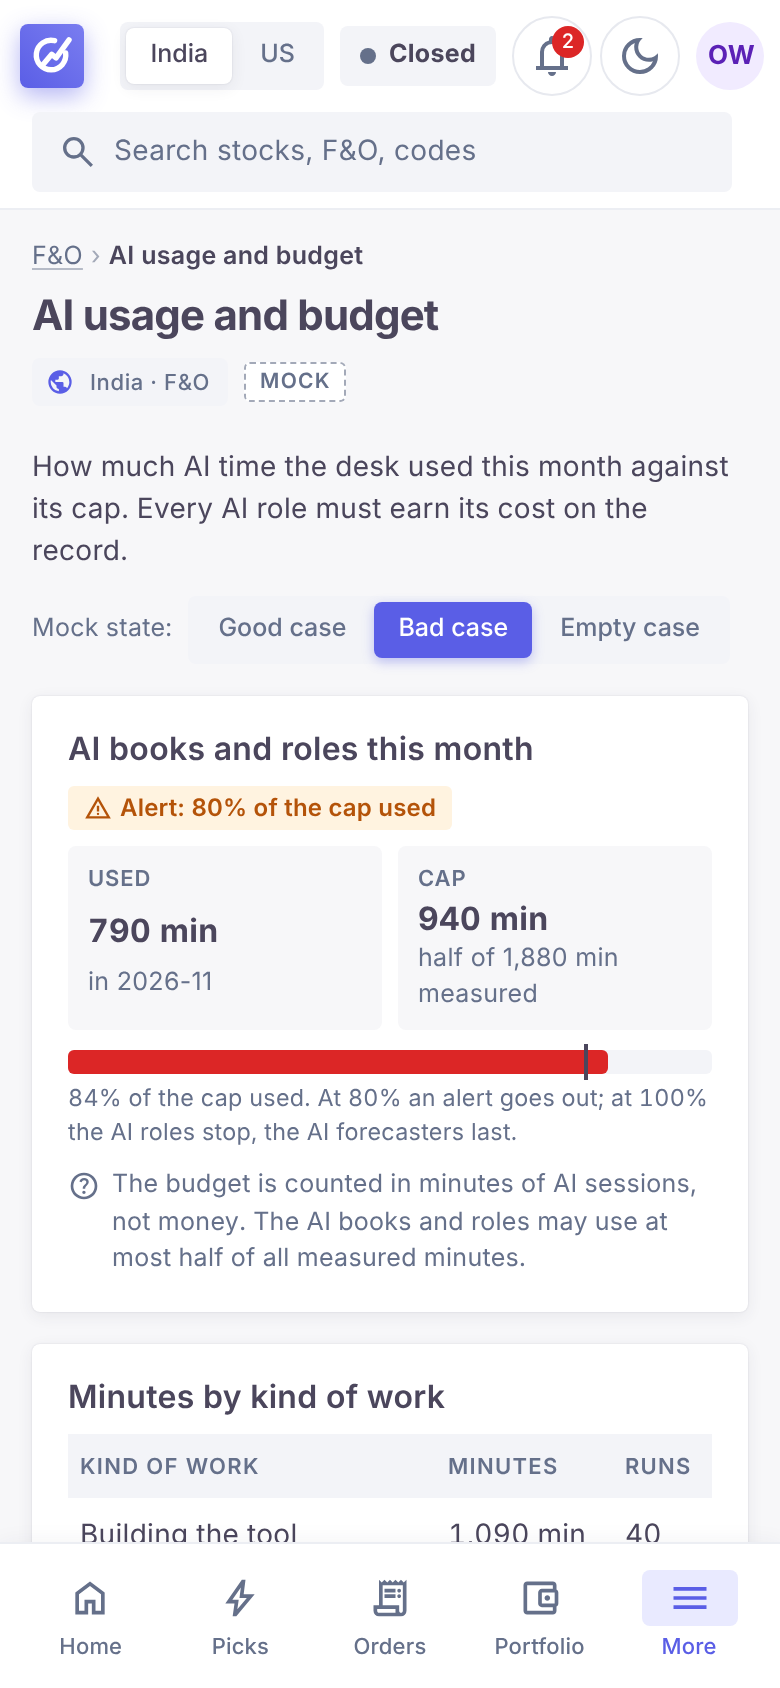
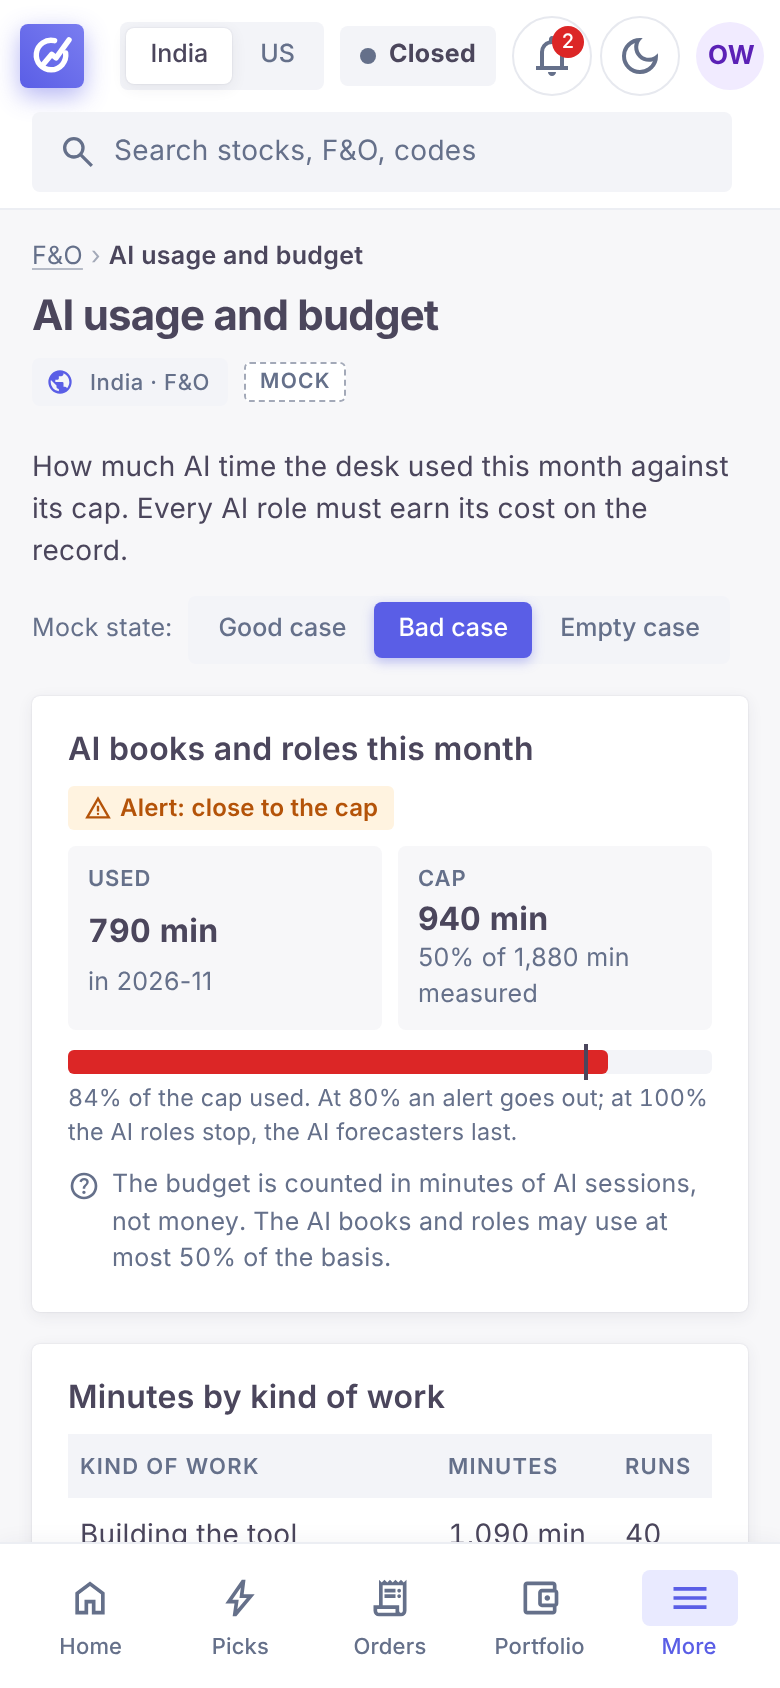
Contract 2.11.0: BG1's three shares on the budget page (share_pct, alert_pct, stop_pct)
The W3 builder found mockup 43 copying BG1's rules into the screen (the alert tick at 80%, "half of" the basis, "at
100%"). FnoBudget now sends share_pct, alert_pct and stop_pct (required) from trading config.yaml budget
(books_and_roles_share_pct 50, alert_pct 80, stop_pct 100); every sentence and the tick read them. A sweep of
mockups 37 and 39-46 found no other copied owner limit (the rest are comments, the chances chart's 50% scale end and
the protocol's 2% question definition).

Claude-Session: https://claude.ai/code/session_01XFXpbkyixX7SuXeQCp5EnX

Changed region(s): [[0.2154, 0.7393, 0.6462, 0.7701], [0.2462, 0.4621, 0.5846, 0.4929], [0.5231, 0.5545, 0.8, 0.5853]]

diff --git a/design/mockups/43-budget/page.html b/design/mockups/43-budget/page.html
@@ -1506,7 +1506,7 @@ footer{color:var(--md-sys-color-on-surface-variant);font-size:12px;text-align:ce
   <symbol id="mb-logo" viewBox="0 0 64 64"><g fill="none" stroke="currentColor" stroke-width="7.5" stroke-linecap="round" stroke-linejoin="round"><path d="M52.3 29.15 A20.5 20.5 0 1 1 36.96 12.11"/><path d="M21 45 L33 31 L39 36 L57 11"/></g></symbol>
 </svg>
 
[2 lines of base64/hex data omitted]
 <script>
 /* every state is a Mock example on 16 Nov 2026 at 15:30 IST, after the card was sent (the catalog's made-up date) */
 (() => { SHELL.now = '2026-11-16T10:00:00Z';
@@ -2212,21 +2212,21 @@ function srcLine(c, op, tip) {
     c.el('span', {class: 'mb-asof', 'data-tip': 'api/examples/fno-screens.json, operation ' + op}, c.icon('schedule'), 'F&O data catalog: ' + op),
     c.el('span', {class: 'mb-tag mock', 'data-tip': tip}, 'Mock: made up'));
 }
-/* The month's minutes against the cap (a bar with the 80% alert mark), the level with its meaning, and the minutes by
+/* The month's minutes against the cap (a bar with the alert mark, all shares from the payload), the level with its meaning, and the minutes by
    kind of work. Minutes only: no model name, no session. */
-const LEVEL = {ok: ['success', 'check', 'Within budget'], alert: ['warn', 'warning', 'Alert: 80% of the cap used'], stop: ['danger', 'block', 'Stop: the cap is reached'], unknown: ['neutral', 'help', 'Unknown']};
+const LEVEL = {ok: ['success', 'check', 'Within budget'], alert: ['warn', 'warning', 'Alert: close to the cap'], stop: ['danger', 'block', 'Stop: the cap is reached'], unknown: ['neutral', 'help', 'Unknown']};
 const GROUP = {ai_books: 'AI books (forecasts)', ai_roles: 'AI roles (desk meeting)', post_mortem: 'Weekly post-mortem', data_routines: 'Data routines', development: 'Building the tool'};
 function mins(x) { return `${Math.round(x).toLocaleString('en-IN')} min`; }
 function budgetPart(main, c) {
   const {el} = c, B = pay(), [cls, g, w] = LEVEL[B.level], pct = B.pct_of_cap;
   main.append(el('div', {class: 'stack'},
     sec(c, ['AI books and roles this month', el('span', {class: 'mb-label ' + cls}, c.icon(g), w)],
-      el('div', {class: 'facts2'}, fact(c, 'Used', mins(B.books_and_roles_minutes), `in ${B.month}`), fact(c, 'Cap', mins(B.cap_minutes), `half of ${mins(B.basis_minutes)} ${B.basis === 'plan' ? 'in your plan' : 'measured'}`)),
-      el('div', {class: 'cap'}, el('div', {class: 'bar', role: 'img', 'aria-label': pct == null ? 'Nothing to measure yet' : `${pct.toFixed(0)}% of the cap used; the alert is at 80%`},
-        pct == null ? null : el('i', {style: `width:${Math.min(100, pct).toFixed(1)}%`}), el('span', {class: 'tick', style: 'left:80%'})),
-        el('small', {class: 'muted'}, pct == null ? 'Nothing to measure yet.' : `${pct.toFixed(0)}% of the cap used. At 80% an alert goes out; at 100% the AI roles stop, the AI forecasters last.`)),
+      el('div', {class: 'facts2'}, fact(c, 'Used', mins(B.books_and_roles_minutes), `in ${B.month}`), fact(c, 'Cap', mins(B.cap_minutes), `${B.share_pct}% of ${mins(B.basis_minutes)} ${B.basis === 'plan' ? 'in your plan' : 'measured'}`)),
+      el('div', {class: 'cap'}, el('div', {class: 'bar', role: 'img', 'aria-label': pct == null ? 'Nothing to measure yet' : `${pct.toFixed(0)}% of the cap used; the alert is at ${B.alert_pct}%`},
+        pct == null ? null : el('i', {style: `width:${Math.min(100, pct).toFixed(1)}%`}), el('span', {class: 'tick', style: `left:${Math.min(100, B.alert_pct)}%`})),
+        el('small', {class: 'muted'}, pct == null ? 'Nothing to measure yet.' : `${pct.toFixed(0)}% of the cap used. At ${B.alert_pct}% an alert goes out; at ${B.stop_pct}% the AI roles stop, the AI forecasters last.`)),
       B.note ? el('p', {class: 'small', style: 'margin:8px 0 0'}, c.icon('info'), ' ', B.note) : null,
-      howto(c, 'The budget is counted in minutes of AI sessions, not money. The AI books and roles may use at most half of all measured minutes.')),
+      howto(c, `The budget is counted in minutes of AI sessions, not money. The AI books and roles may use at most ${B.share_pct}% of the basis.`)),
     sec(c, 'Minutes by kind of work', B.groups.length ? el('div', {class: 'md-table-wrap'}, el('table', {class: 'md-table'},
       el('thead', {}, el('tr', {}, ...['Kind of work', 'Minutes', 'Runs'].map(h => el('th', {scope: 'col'}, h)))),
       el('tbody', {}, ...B.groups.map(r => el('tr', {}, el('td', {}, GROUP[r.group]), el('td', {class: 'md-numeric'}, mins(r.minutes)), el('td', {class: 'md-numeric'}, String(r.runs)))))))

diff --git a/design/mockups/43-budget/js/2-budget.js b/design/mockups/43-budget/js/2-budget.js
@@ -1,18 +1,18 @@
-/* The month's minutes against the cap (a bar with the 80% alert mark), the level with its meaning, and the minutes by
+/* The month's minutes against the cap (a bar with the alert mark, all shares from the payload), the level with its meaning, and the minutes by
    kind of work. Minutes only: no model name, no session. */
-const LEVEL = {ok: ['success', 'check', 'Within budget'], alert: ['warn', 'warning', 'Alert: 80% of the cap used'], stop: ['danger', 'block', 'Stop: the cap is reached'], unknown: ['neutral', 'help', 'Unknown']};
+const LEVEL = {ok: ['success', 'check', 'Within budget'], alert: ['warn', 'warning', 'Alert: close to the cap'], stop: ['danger', 'block', 'Stop: the cap is reached'], unknown: ['neutral', 'help', 'Unknown']};
 const GROUP = {ai_books: 'AI books (forecasts)', ai_roles: 'AI roles (desk meeting)', post_mortem: 'Weekly post-mortem', data_routines: 'Data routines', development: 'Building the tool'};
 function mins(x) { return `${Math.round(x).toLocaleString('en-IN')} min`; }
 function budgetPart(main, c) {
   const {el} = c, B = pay(), [cls, g, w] = LEVEL[B.level], pct = B.pct_of_cap;
   main.append(el('div', {class: 'stack'},
     sec(c, ['AI books and roles this month', el('span', {class: 'mb-label ' + cls}, c.icon(g), w)],
-      el('div', {class: 'facts2'}, fact(c, 'Used', mins(B.books_and_roles_minutes), `in ${B.month}`), fact(c, 'Cap', mins(B.cap_minutes), `half of ${mins(B.basis_minutes)} ${B.basis === 'plan' ? 'in your plan' : 'measured'}`)),
-      el('div', {class: 'cap'}, el('div', {class: 'bar', role: 'img', 'aria-label': pct == null ? 'Nothing to measure yet' : `${pct.toFixed(0)}% of the cap used; the alert is at 80%`},
-        pct == null ? null : el('i', {style: `width:${Math.min(100, pct).toFixed(1)}%`}), el('span', {class: 'tick', style: 'left:80%'})),
-        el('small', {class: 'muted'}, pct == null ? 'Nothing to measure yet.' : `${pct.toFixed(0)}% of the cap used. At 80% an alert goes out; at 100% the AI roles stop, the AI forecasters last.`)),
+      el('div', {class: 'facts2'}, fact(c, 'Used', mins(B.books_and_roles_minutes), `in ${B.month}`), fact(c, 'Cap', mins(B.cap_minutes), `${B.share_pct}% of ${mins(B.basis_minutes)} ${B.basis === 'plan' ? 'in your plan' : 'measured'}`)),
+      el('div', {class: 'cap'}, el('div', {class: 'bar', role: 'img', 'aria-label': pct == null ? 'Nothing to measure yet' : `${pct.toFixed(0)}% of the cap used; the alert is at ${B.alert_pct}%`},
+        pct == null ? null : el('i', {style: `width:${Math.min(100, pct).toFixed(1)}%`}), el('span', {class: 'tick', style: `left:${Math.min(100, B.alert_pct)}%`})),
+        el('small', {class: 'muted'}, pct == null ? 'Nothing to measure yet.' : `${pct.toFixed(0)}% of the cap used. At ${B.alert_pct}% an alert goes out; at ${B.stop_pct}% the AI roles stop, the AI forecasters last.`)),
       B.note ? el('p', {class: 'small', style: 'margin:8px 0 0'}, c.icon('info'), ' ', B.note) : null,
-      howto(c, 'The budget is counted in minutes of AI sessions, not money. The AI books and roles may use at most half of all measured minutes.')),
+      howto(c, `The budget is counted in minutes of AI sessions, not money. The AI books and roles may use at most ${B.share_pct}% of the basis.`)),
     sec(c, 'Minutes by kind of work', B.groups.length ? el('div', {class: 'md-table-wrap'}, el('table', {class: 'md-table'},
       el('thead', {}, el('tr', {}, ...['Kind of work', 'Minutes', 'Runs'].map(h => el('th', {scope: 'col'}, h)))),
       el('tbody', {}, ...B.groups.map(r => el('tr', {}, el('td', {}, GROUP[r.group]), el('td', {class: 'md-numeric'}, mins(r.minutes)), el('td', {class: 'md-numeric'}, String(r.runs)))))))

diff --git a/api/catalog/fno-screens.md b/api/catalog/fno-screens.md
@@ -533,17 +533,20 @@ Backend records named in the tables (exepex/trading):
   - `india_alert` (negative): Mock (india): past the 80% alert. AI books and roles at 84% of their cap: alert
   - `india_none` (empty): Mock (india): nothing measured yet. No timing record this month: level unknown
 - **Never sent (strategy internals):** the AI model's name, a session id or a routine's prompt
-- **Fields:** 11, of which the backend can fill 0 today
+- **Fields:** 14, of which the backend can fill 0 today
 
 | Field | Meaning | Unit | Source record (backend) | Freshness | Visibility | Backend today |
 |---|---|---|---|---|---|---|
 | `month` | The month measured | month (YYYY-MM) | BG1's cap reading (fno/budget/cap.py CapReading) over F8's usage ledger (accounting/ai_usage.csv) | after each routine run, at the 07:10 IST publish | public | no: BG1 |
-| `level` | ok below 80% of the cap; alert from 80%; stop from 100% (AI roles stop, the AI forecasters last); unknown when nothing can be measured | enum | BG1's cap reading (fno/budget/cap.py CapReading) over F8's usage ledger (accounting/ai_usage.csv) | after each routine run, at the 07:10 IST publish | public | no: BG1 |
+| `level` | ok below alert_pct of the cap; alert from alert_pct; stop from stop_pct (AI roles stop, the AI forecasters last); unknown when nothing can be measured | enum | BG1's cap reading (fno/budget/cap.py CapReading) over F8's usage ledger (accounting/ai_usage.csv) | after each routine run, at the 07:10 IST publish | public | no: BG1 |
 | `books_and_roles_minutes` | The AI books' and roles' session minutes this month | minutes | BG1's cap reading (fno/budget/cap.py CapReading) over F8's usage ledger (accounting/ai_usage.csv) | after each routine run, at the 07:10 IST publish | public | no: BG1 |
 | `basis_minutes` | What the cap is a share of: all measured session minutes (until December 2026), then the owner's plan minutes | minutes | BG1's cap reading (fno/budget/cap.py CapReading) over F8's usage ledger (accounting/ai_usage.csv) | after each routine run, at the 07:10 IST publish | public | no: BG1 |
-| `cap_minutes` | The cap: 50% of the basis | minutes | BG1's cap reading (fno/budget/cap.py CapReading) over F8's usage ledger (accounting/ai_usage.csv) | after each routine run, at the 07:10 IST publish | public | no: BG1 |
+| `cap_minutes` | The cap: share_pct of the basis | minutes | BG1's cap reading (fno/budget/cap.py CapReading) over F8's usage ledger (accounting/ai_usage.csv) | after each routine run, at the 07:10 IST publish | public | no: BG1 |
 | `pct_of_cap` | Books and roles as a share of the cap; null with nothing to measure against | percent | BG1's cap reading (fno/budget/cap.py CapReading) over F8's usage ledger (accounting/ai_usage.csv) | after each routine run, at the 07:10 IST publish | public | no: BG1 |
 | `basis` | measured = a share of measured minutes; plan = a share of the owner's plan minutes | enum | BG1's cap reading (fno/budget/cap.py CapReading) over F8's usage ledger (accounting/ai_usage.csv) | after each routine run, at the 07:10 IST publish | public | no: BG1 |
+| `share_pct` | The cap as a share of the basis (50, owner 15 Oct 2026; 2.11.0: sent, never copied into a screen) | percent | BG1's config (budget.books_and_roles_share_pct) | after each routine run, at the 07:10 IST publish | public | no: BG1 |
+| `alert_pct` | The share of the cap at which the alert goes out (80, owner 15 Oct 2026) | percent | BG1's config (budget.alert_pct) | after each routine run, at the 07:10 IST publish | public | no: BG1 |
+| `stop_pct` | The share of the cap at which the AI roles stop (100, owner 15 Oct 2026) | percent | BG1's config (budget.stop_pct) | after each routine run, at the 07:10 IST publish | public | no: BG1 |
 | `note` | Why the level is unknown, or why it is a lower bound (a routine not yet timing itself); empty when complete | text | BG1's cap reading (fno/budget/cap.py CapReading) over F8's usage ledger (accounting/ai_usage.csv) | after each routine run, at the 07:10 IST publish | public | no: BG1 |
 | `groups[].group` | Which kind of work used the minutes | enum | BG1's cap reading (fno/budget/cap.py CapReading) over F8's usage ledger (accounting/ai_usage.csv) | after each routine run, at the 07:10 IST publish | public | no: BG1 |
 | `groups[].minutes` | Minutes this month | minutes | BG1's cap reading (fno/budget/cap.py CapReading) over F8's usage ledger (accounting/ai_usage.csv) | after each routine run, at the 07:10 IST publish | public | no: BG1 |

diff --git a/api/README.md b/api/README.md
@@ -28,5 +28,5 @@ visibility, backend records, privacy, mockups equal to the examples, rule probes
 
 Versioning: 2.0.0 was the wave of 2026-10-08 (the owner approved the major bump: the mockups' payloads replaced the
 never-built 1.0 payloads of watchlist, stocks/{ticker}, track-record and news); 2.1.0 adds the block endpoints (W10,
-additions only); 2.2.0 adds the screener and Markets overview blocks (W11, additions only); 2.7.0 adds the F&O data catalog (P1, additions only); 2.8.0 adds four F&O pages: weather history, scoreboards, budget, data health (W3, additions only); 2.9.0 adds the Forecast lab's running scores (`forecast_history`) and the chances on the weather history (owner, 16 Oct 2026); 2.10.0 adds each forecast series' back-fill hash and each paper book's open-risk cap; 2.11.0 adds the card's per-trade loss cap. Additions bump the minor version, and a major version needs the owner. A page payload uses catalogue
+additions only); 2.2.0 adds the screener and Markets overview blocks (W11, additions only); 2.7.0 adds the F&O data catalog (P1, additions only); 2.8.0 adds four F&O pages: weather history, scoreboards, budget, data health (W3, additions only); 2.9.0 adds the Forecast lab's running scores (`forecast_history`) and the chances on the weather history (owner, 16 Oct 2026); 2.10.0 adds each forecast series' back-fill hash and each paper book's open-risk cap; 2.11.0 adds the card's per-trade loss cap and the budget's three shares. Additions bump the minor version, and a major version needs the owner. A page payload uses catalogue
 fields only (`docs/DATA_CATALOGUE.md` of the stock repository); a missing field is a data request.

diff --git a/design/mockups/43-budget/notes.md b/design/mockups/43-budget/notes.md
@@ -25,3 +25,7 @@ FnoBudget (`api/schemas/fno-budget.yaml`), page `budget`, contract 2.8.0; field 
 1. **Minutes, not rupees.** BG1 caps session minutes; the subscription's real cost is not a paper figure, so it is not on this screen.
 2. **No AI model name and no session id** appear anywhere (exepex/trading decision: no screen names an AI model).
 3. **Building the tool counts in the basis**, so the cap grows with development work; the note says when the measure is only a lower bound.
+
+**Shares sent, never copied (contract 2.11.0; the W3 builder, 16 Oct 2026):** the cap's share of the basis (50), the
+alert (80) and the stop (100) come from BG1's config as `share_pct`, `alert_pct` and `stop_pct`; the bar's alert mark
+and every sentence read them, so a changed config can never leave the screen showing old numbers.
